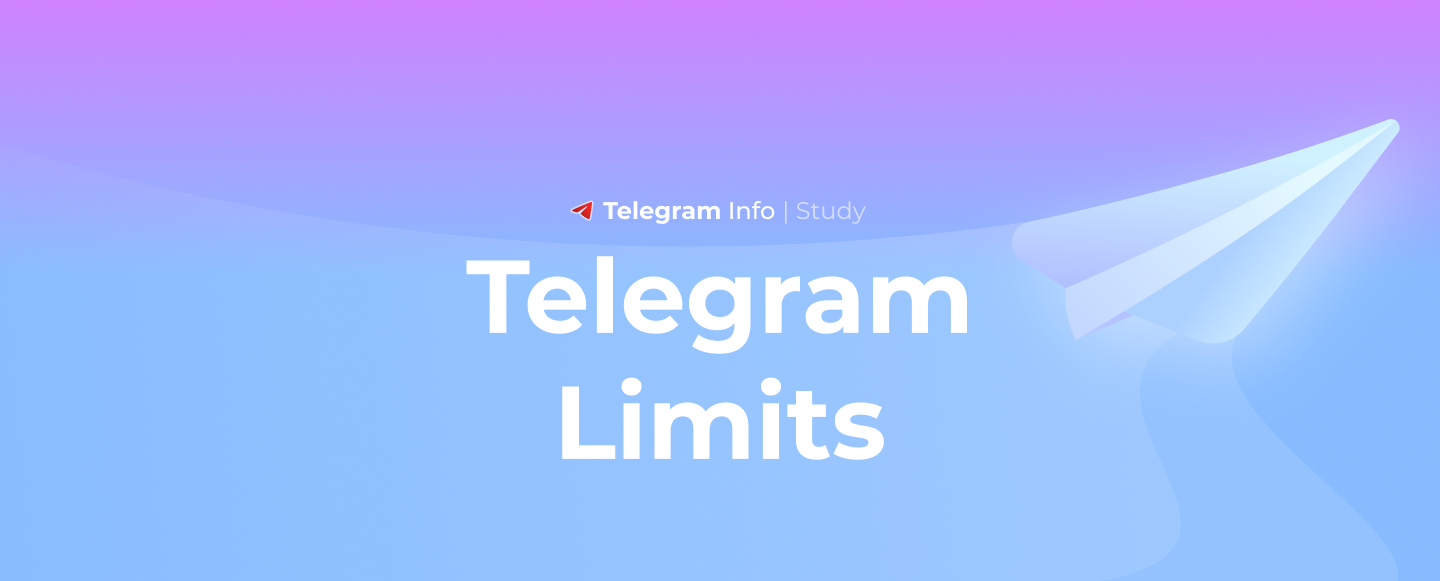
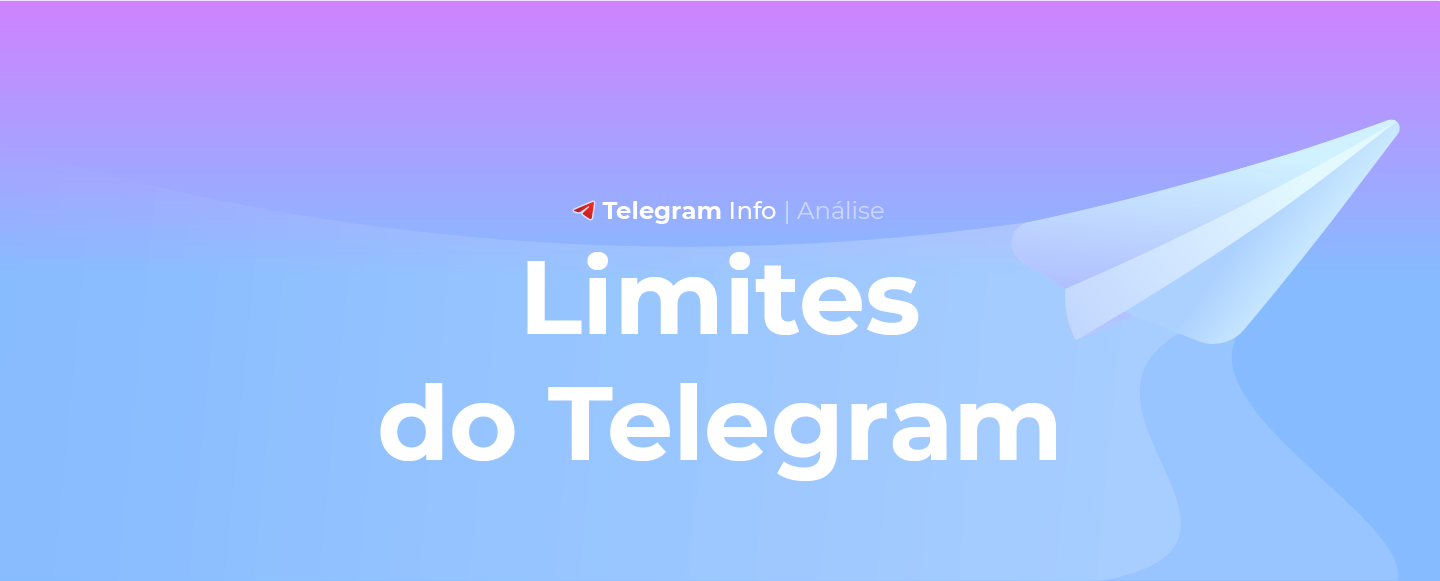
Added Portuguese, Brazilian (#29)

diff --git a/README.md b/README.md
@@ -23,3 +23,4 @@ This project describes Telegram limitations and displays them on [limits.tginfo.
 - Arabic: Disk3
 - Spanish: dangeredwolf
 - Persian: mbakhshiane
+- Portuguese (Brazilian): tantofazisso
